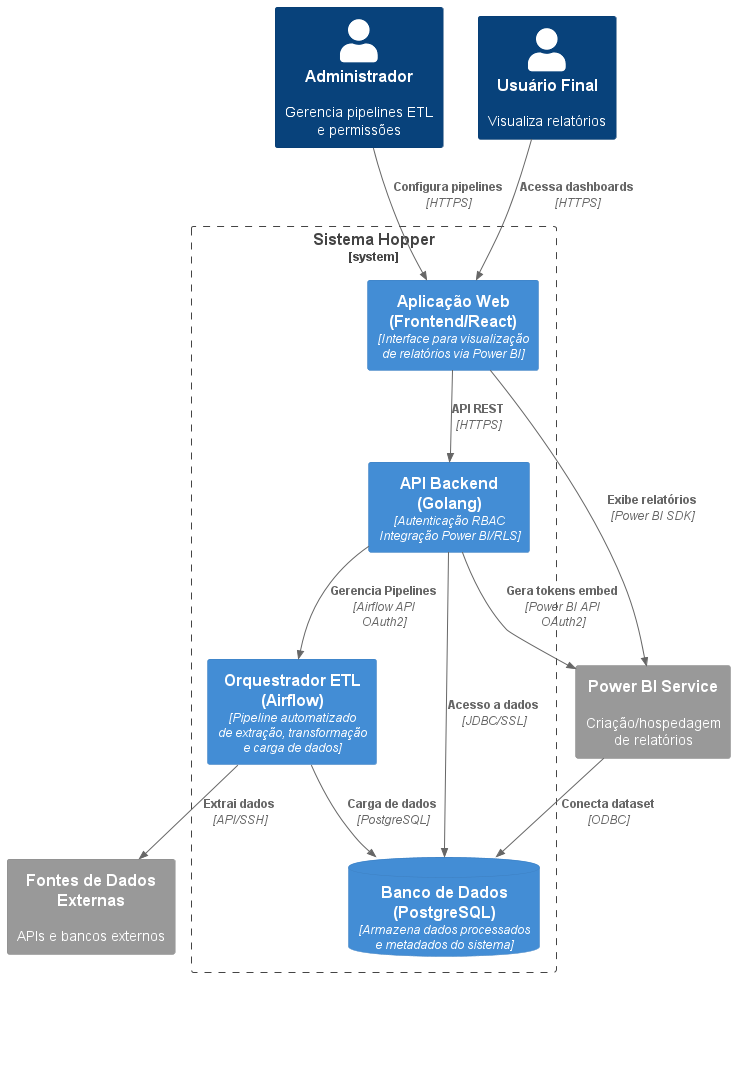
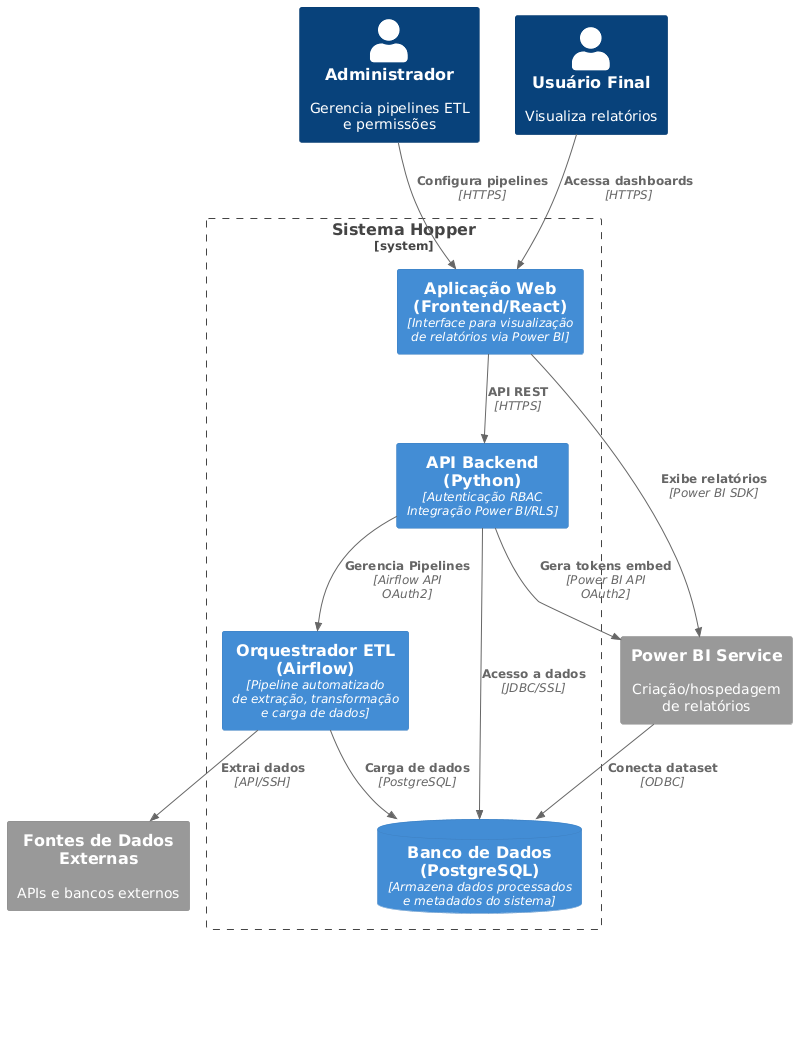
Add files via upload

diff --git a/README.md b/README.md
@@ -1,6 +1,11 @@
 # Hopper
+<br/>
 
-![Grace Hopper](docs/images/gracehopperscreenshot.png)
+<p align="center">
+  <img src="docs/images/Brand.png" width="300" alt="Logo Hopper">
+</p>
+
+<br/>
 
 - **Título do Projeto**: Sistema de Gerenciamento e Distribuição de Relatórios Dinâmicos com Power BI Embedded.
 - **Nome do Estudante**: Gabriel Deglmann Kasten.
@@ -9,7 +14,7 @@
 
 ## 1. Resumo
 
-Em ambientes corporativos que lidam com grandes volumes de dados provenientes de múltiplas fontes (CSV, APIs REST, bancos de dados relacionais), equipes de negócios enfrentam atrasos e inconsistências ao consolidar e analisar informações manualmente. O Hopper surge para resolver esse problema, oferecendo uma plataforma que automatiza o fluxo de ETL — extração, transformação e carga incremental de dados —, centralizando e padronizando a preparação de dados. Em seguida, disponibiliza dashboards interativos via Power BI Embedded, garantindo relatórios sempre atualizados, seguros e escaláveis para suportar decisões estratégicas.
+Em ambientes corporativos que lidam com grandes volumes de dados provenientes de múltiplas fontes (CSV, APIs REST, bancos de dados relacionais, etc), equipes de negócios enfrentam atrasos e inconsistências ao consolidar e analisar informações manualmente. O Hopper surge para resolver esse problema, oferecendo uma plataforma que automatiza o fluxo de ETL — extração, transformação e carga incremental de dados —, centralizando e padronizando a preparação de dados. Em seguida, disponibiliza dashboards interativos via Power BI Embedded, garantindo relatórios sempre atualizados, seguros e escaláveis para suportar decisões estratégicas.
 
 ## 2. Introdução
 
@@ -36,7 +41,7 @@ Dessa forma, o sistema reduz erros manuais, acelera a disponibilização de insi
   - **RF03:** O sistema deve transformar dados (limpeza, enriquecimento, agregação) por meio de scripts Python com Pandas e Numpy, executados em tarefas Airflow pelo administrador
   - **RF04:** O sistema deve realizar carga incremental no banco PostgreSQL usando a biblioteca psycopg2, orquestrada pelo Airflow.
   - **RF05:** O sistema deve gerar relatórios no Power BI importando datasets do PostgreSQL e publicando-os em workspaces dedicados da microsoft via Power BI REST API, configurado pelo administrador.
-  - **RF06:** O sistema deve permitir autenticação de usuários via OAuth2 (Google/Microsoft) no backend Go (Gin).
+  - **RF06:** O sistema deve permitir autenticação de usuários via OAuth2 (Google/Microsoft) no backend Python (FastAPI).
   - **RF07:** O sistema deve aplicar regras de segurança em nível de linha (RLS) nos relatórios embedados com Power BI Embedded.
   - **RF08:** O sistema deve publicar dashboards do Power BI em uma aplicação Web React usando a biblioteca powerbi-client-react.
   - **RF09:** O sistema deve monitorar métricas de execução do Airfow (taxa de sucesso/falha e tempo médio por task).
@@ -56,7 +61,11 @@ Dessa forma, o sistema reduz erros manuais, acelera a disponibilização de insi
 
 - **Representação dos Requisitos:**
 
-![Hopper_Casos_de_Uso](docs/images/Hopper_Casos_de_Uso.png)
+<!-- ![Hopper_Casos_de_Uso](docs/images/Hopper_Casos_de_Uso.png) -->
+
+<p align="center">
+  <img src="docs/images/Hopper_Casos_de_Uso.png" width="500" alt="Logo Hopper">
+</p>
 
 ### 3.2. Considerações de Design
 
@@ -72,19 +81,31 @@ Dessa forma, o sistema reduz erros manuais, acelera a disponibilização de insi
 
 ## Diagrama de Contexto
 
-![c1_diagrama_contexto](docs/images/c1_diagrama_contexto.png)
+<!-- ![c1_diagrama_contexto](docs/images/c1_diagrama_contexto.png) -->
+
+<p align="center">
+  <img src="docs/images/c1_diagrama_contexto.png" width="500" alt="Logo Hopper">
+</p>
 
 <br><br>
 
 ## Diagrama de Container
 
-![Hopper_C4_Container_Diagram](docs/images/Hopper_C4_Container_Diagram.png)
+<!-- ![Hopper_C4_Container_Diagram](docs/images/Hopper_C4_Container_Diagram.png) -->
+
+<p align="center">
+  <img src="docs/images/Hopper_C4_Container_Diagram.png" width="500" alt="Logo Hopper">
+</p>
 
 <br><br>
 
 ## Diagrama de Componentes
 
-![c3_diagrama_componentes](docs/images/c3_diagrama_componentes.png)
+<!-- ![c3_diagrama_componentes](docs/images/c3_diagrama_componentes.png) -->
+
+<p align="center">
+  <img src="docs/images/c3_diagrama_componentes.png" alt="Logo Hopper">
+</p>
 
 <br><br>
 
@@ -143,12 +164,13 @@ Listagem das fontes de pesquisa, frameworks, bibliotecas e ferramentas que serã
 - [Pandas](https://pandas.pydata.org/)
 - [Numpy](https://numpy.org/)
 - [Psycopg2](https://pypi.org/project/psycopg2/)
-- [Gin Gonic](https://gin-gonic.com/)
 - [Render](https://render.com/)
 - [Git](https://git-scm.com/)
 - [Python](https://www.python.org/)
+- [FastAPI](https://fastapi.tiangolo.com/)
 - [Powerbi](https://www.microsoft.com/pt-br/power-platform/products/power-bi)
 - [Powerbi Embedded](https://azure.microsoft.com/pt-br/products/power-bi-embedded)
+- [Powerbi React](https://github.com/microsoft/powerbi-client-react)
 - [Biblioteca de ícones](https://phosphoricons.com/)
 
 Para controle de metas e entregas foi utilizado o [Trello](https://trello.com/b/CzrWYIOK/backlog).
@@ -160,8 +182,6 @@ Para o desenvolvimento do design foi utilizado o [Figma](https://www.figma.com/d
 
 - Considerações Professor/a:
 
-<div style="page-break-after: always;"></div>
 - Considerações Professor/a:
 
-<div style="page-break-after: always;"></div>
 - Considerações Professor/a:
